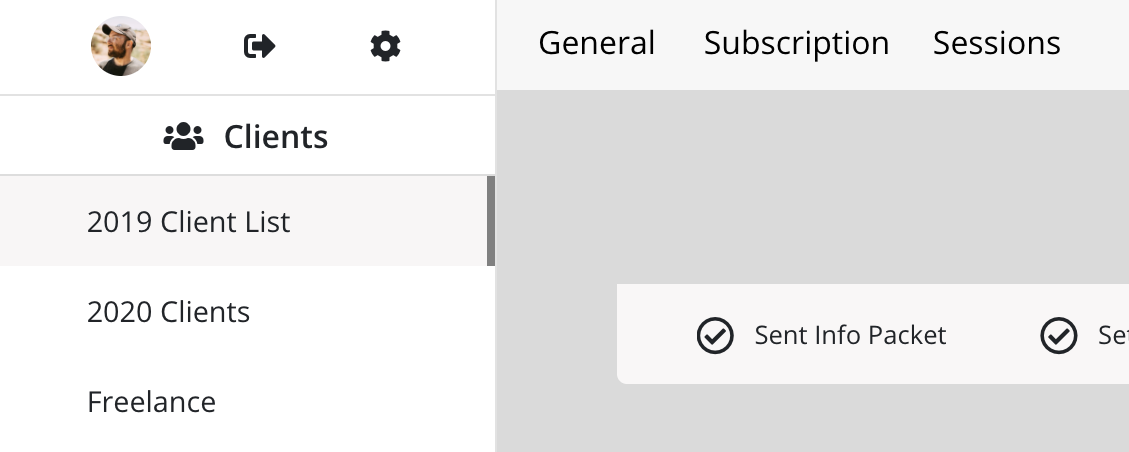
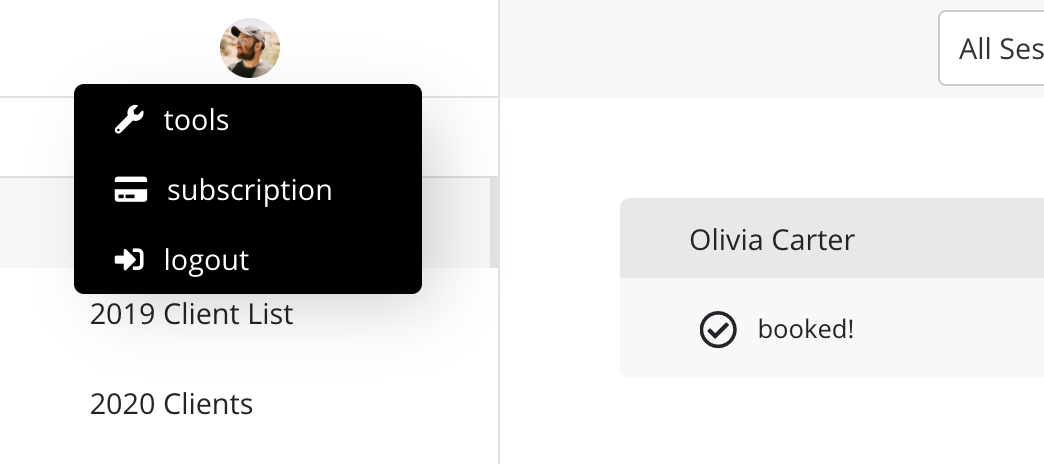
Tutorial updated to include payment feature.

diff --git a/src/components/Clients/Tutorial/Tutorial.js b/src/components/Clients/Tutorial/Tutorial.js
@@ -6,6 +6,7 @@ import secondDemo from '../../../assets/demo2.png'
 import thirdDemo from '../../../assets/demo3.png'
 import fourthDemo from '../../../assets/demo4.png'
 import fifthDemo from '../../../assets/demo5.png'
+import sixthDemo from '../../../assets/demo6.png'
 
 export default class Tutorial extends Component {
     constructor(){
@@ -16,7 +17,8 @@ export default class Tutorial extends Component {
                 {complete: false, id: 'b'},
                 {complete: false, id: 'c'},
                 {complete: false, id: 'd'},
-                {complete: false, id: 'e'}
+                {complete: false, id: 'e'},
+                {complete: false, id: 'f'}
             ],
             currentIndex: 0
         }
@@ -33,7 +35,7 @@ export default class Tutorial extends Component {
 
     goForward = () => {
         const {currentIndex, progress} = this.state
-    if(currentIndex < 4){
+    if(currentIndex < 5){
        let newIndex = currentIndex + 1
        progress[newIndex].complete = true
        this.setState({ progress, currentIndex: newIndex })
@@ -55,7 +57,7 @@ export default class Tutorial extends Component {
         switch(currentIndex){
             case 0:
             return (
-                <p>We have a few things to set up to get started. But once we complete these steps, it should be a lot easier to keep track of clients! To start, you'll head to Tools > Templates. </p>
+                <p>We have a few things to set up to get started. But once we complete these steps, it should be a lot easier to keep track of clients! To start, you'll head over to your <i className="fas fa-wrench"/> tools to set up your first session template. </p>
             )
             case 1:
             return (
@@ -63,7 +65,7 @@ export default class Tutorial extends Component {
             )
             case 2: 
             return (
-                <center><p>To create a client list, hover over Clients and click the + symbol.</p></center>
+                <center><p>To create a client list, hover over Clients and click the + symbol. You can drag and drop these lists to rearrange them, and transfer clients to other lists if you want to delete a list.</p></center>
             )
             case 3:
             return (
@@ -72,6 +74,10 @@ export default class Tutorial extends Component {
             case 4:
             return (
                 <p>When adding a client, you can assign a session template and customize it to fit. Whether they have a custom price, or you need to add a couple of to-do items. You can always edit a client at any stage in the process. </p>
+            )
+            case 5:
+            return (
+                <p>You can also keep track of payments made by clients by clicking on the <i className="far fa-credit-card"/> symbol for each client. Going to the Finance Dashboard, you can get a quick view of your total income. </p>
             )
             default: 
             return (<p>We have a few things to set up to get started. But once we complete these steps, it should be a lot easier to keep track of clients! To start, you'll head to Tools > Templates. </p>)
@@ -91,6 +97,8 @@ export default class Tutorial extends Component {
             return fourthDemo
             case 4:
             return fifthDemo
+            case 5: 
+            return sixthDemo
             default:
             return firstDemo
         }
@@ -138,7 +146,7 @@ export default class Tutorial extends Component {
 
                 <i className="fas fa-arrow-left back arrow" onClick={this.goBack}/>
 
-                {this.state.currentIndex === 4 ? 
+                {this.state.currentIndex === 5 ? 
                 <button type="button" className="btn btn-dark done-button"
                 onClick={() => hideTutorial()}>Done</button>
                 :

diff --git a/src/components/Home/Home.js b/src/components/Home/Home.js
@@ -1,12 +1,12 @@
 import React from 'react'
 import './Home.css'
-import { login } from '../../Main/MainLogic'
+import {login} from '../../Main/MainLogic'
 import Workspace from '../../assets/Workspace5.png'
 import Navbar from '../NavBar/NavBar'
 import Features from '../Features/Features'
 import Footer from '../Footer/Footer'
 import Fade from 'react-reveal/Fade'
-import { mobileCheck } from '../../redux/functions'
+
 
 export default function Home(props){
     return (

diff --git a/src/components/Clients/PaymentModal/PaymentModal.js b/src/components/Clients/PaymentModal/PaymentModal.js
@@ -194,7 +194,7 @@ class PaymentModal extends Component {
     const {open, name, sessionColor} = this.props.paymentModal
     return (
         <Modal open={open} onClose={this.closeModal}>
-            <div className="payment-container align-center column">
+            <div className="client-payment-container align-center column">
                 <h3 className="title">
                     <i className="far fa-credit-card"/>
                     {name}

diff --git a/src/components/Clients/PaymentModal/PaymentModal.css b/src/components/Clients/PaymentModal/PaymentModal.css
@@ -1,4 +1,4 @@
-.payment-container {
+.client-payment-container {
     width: 600px;
     height: 450px;
     font-family: 'Open Sans';
